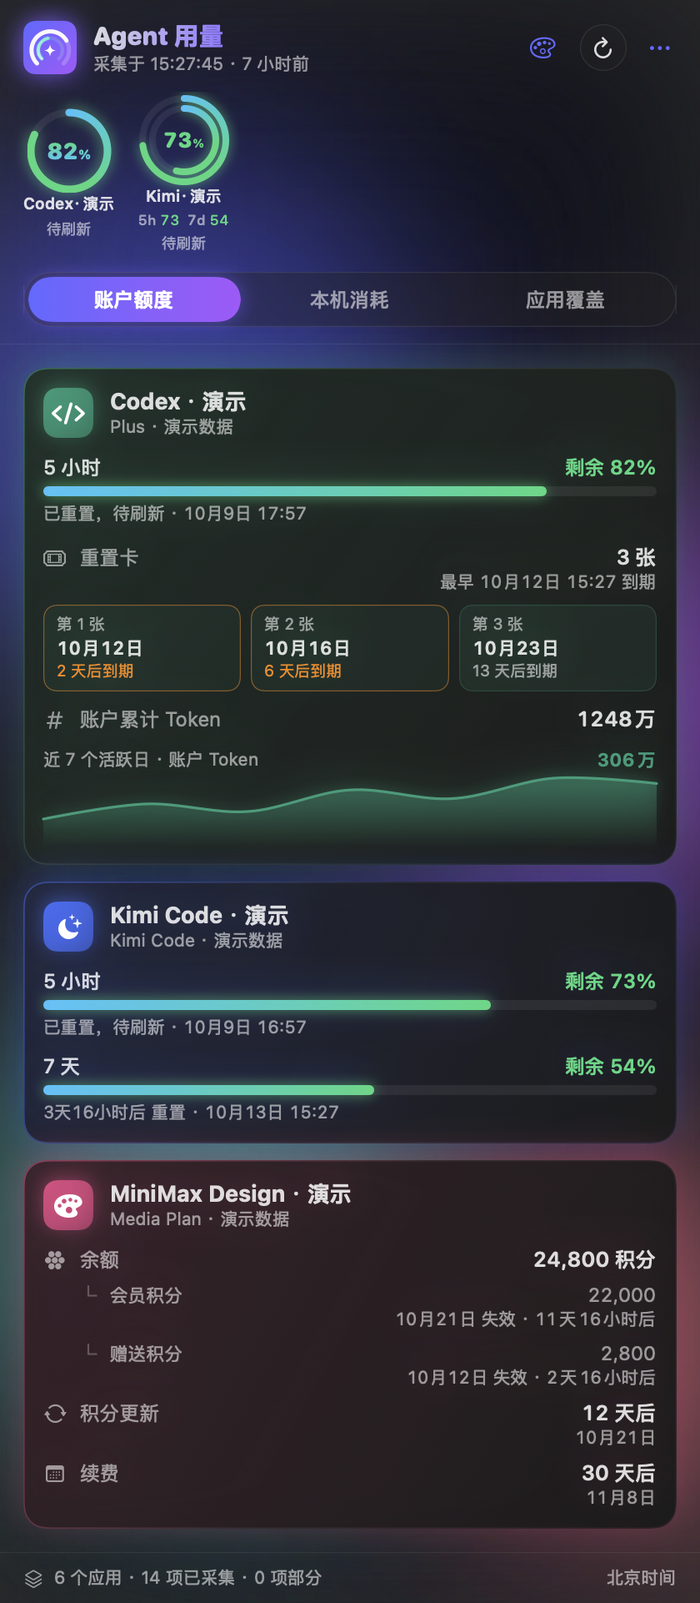
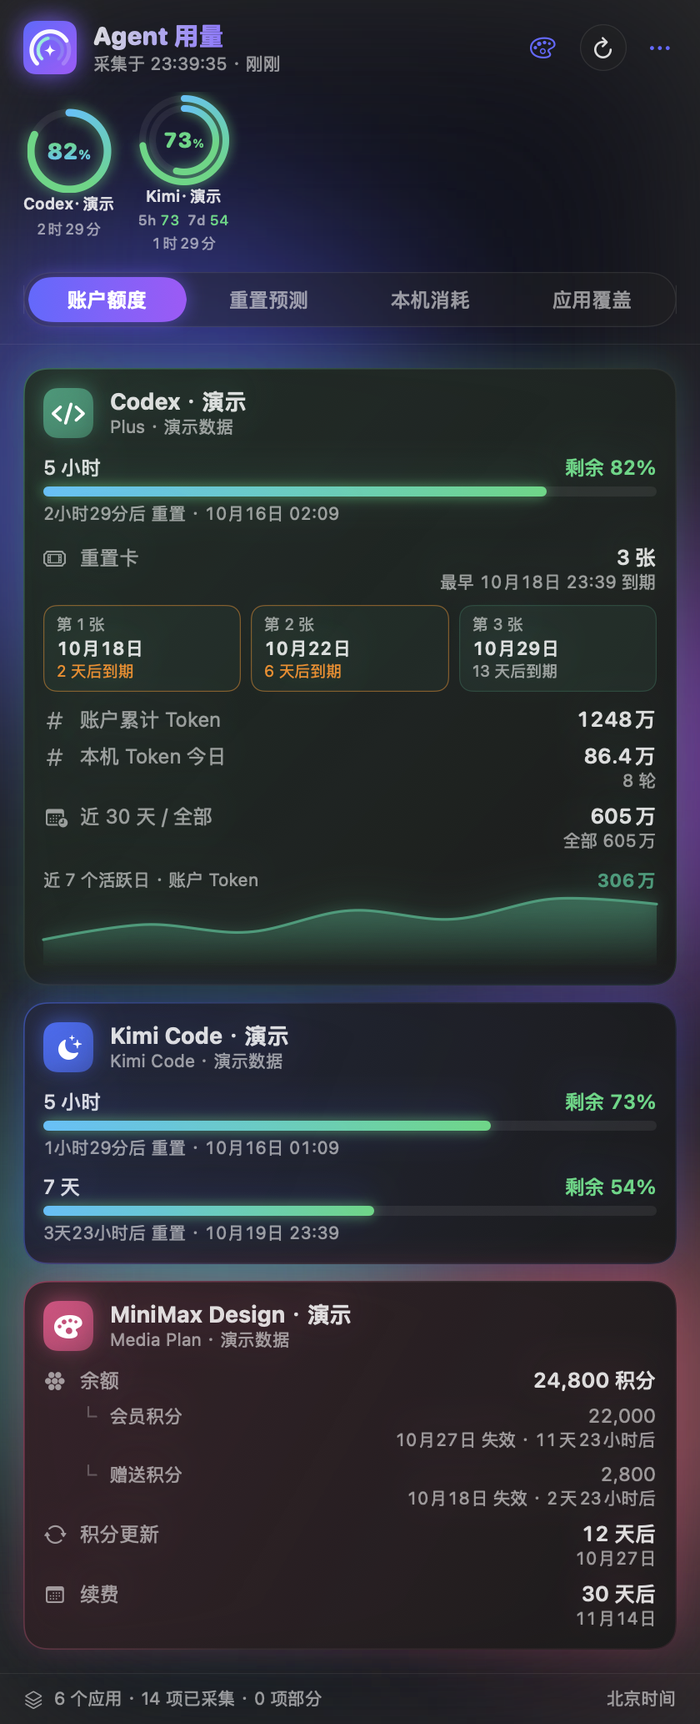
Release v0.6.0: Tibo reset forecast tab and Q-version resetter
Bump to 0.6.0, add release notes, and refresh every README screenshot from
the offline preview. The demo snapshot now carries synthetic forecast data,
and the theme sheet script also builds forecast-themes-{light,dark}.png for
the new README section.

Regression 266 tests and the DMG backend smoke test pass.

diff --git a/scripts/make-demo-snapshot.py b/scripts/make-demo-snapshot.py
@@ -65,7 +65,41 @@ design["metrics"]["credits"] = metric([{"balance": 24800, "unit": "credits", "bu
 design["metrics"]["credit_refresh_time"] = metric({"date": (today + timedelta(days=12)).isoformat()})
 design["metrics"]["renewal_time"] = metric({"date": (today + timedelta(days=30)).isoformat()})
 
-sources = [codex, kimi, design, history]
+forecast = source("reset_forecast", "external_forecast", now)
+def band(values):
+    nums = sorted(v for _, v in values)
+    return {"min": nums[0], "max": nums[-1], "spread": nums[-1] - nums[0], "n": len(nums),
+            "weighted_median": nums[len(nums) // 2], "agreement": "close" if nums[-1] - nums[0] <= 10 else "split",
+            "values": [{"source": s, "percent": v, "basis": "published_answer"} for s, v in values]}
+def site(key, name, h24, h48, confidence, weight, median_gap):
+    return {"source": key, "name": name, "status": "available", "updated_at": timestamp(now - 600),
+            "raw_24h": h24, "raw_48h": h48, "headline_24h": h24, "headline_48h": h48, "weight": weight,
+            "model_version": "demo", "self_reported": {"confidence": confidence, "note": "演示数据，非真实预测。"},
+            "cadence": {"median_gap_days": median_gap, "longest_gap_days": 14}}
+def event(post, kind, hours_ago, summary, n):
+    return {"post_id": post, "kind": kind, "announced_at": timestamp(now - hours_ago * 3600), "scope": "global",
+            "confidence": "high", "summary": summary, "sources": ["willreset", "codex_reset"][:n]}
+forecast["metrics"]["reset_forecast"] = metric({
+    "basis": "third_party_forecast", "cache_state": "fresh", "refresh_minutes": 45,
+    "disclaimer": "第三方独立统计，与 OpenAI 无关；官方从未保证未来会重置，也不是你的账户周期时钟。",
+    "ensemble": {"status": "available", "n_sources": 3, "horizons": {
+        "24h": band([("willreset", 22), ("codex_reset", 28), ("codexreset_org", 31)]),
+        "48h": band([("willreset", 46), ("codex_reset", 52), ("codexreset_org", 58)])}},
+    "sources": [site("willreset", "Will Codex Reset", 22, 46, "medium", 0.40, 3.0),
+                site("codex_reset", "Tibo Radar", 28, 52, "low", 0.27, 4.3),
+                site("codexreset_org", "Codex Reset Monitor", 31, 58, "medium", 0.88, 3.5)],
+    "promises": [{"source": "willreset", "label": "Explicit future reset, no clock", "quote": "演示：下一次重置在路上",
+                  "at": timestamp(now - 5 * 3600), "floor_percent": 60, "has_clock": False}],
+    "history_events": [event("demo-4", "reset_preview", 5, "演示：预告还会再重置一次", 2),
+                       event("demo-3", "reset", 3 * 24, "演示：全员额度已重置", 2),
+                       event("demo-2", "banked", 6 * 24, "演示：重置卡发放到账", 1),
+                       event("demo-1", "reset", 9 * 24, "演示：全员额度已重置", 2)]})
+window_open = now + 9 * 3600
+forecast["metrics"]["known_reset_countdown"] = metric({"basis": "third_party_forecast", "targets": [
+    {"kind": "typical_window", "precision": "window", "label": "公告常见时段 3 AM - 6 AM", "state": "upcoming",
+     "open_at": timestamp(window_open), "close_at": timestamp(window_open + 3 * 3600), "sources": ["codex_reset"]}]})
+
+sources = [codex, kimi, design, history, forecast]
 apps = [{"name": name, "provider": provider, "installed": True, "path": None,
          "version": None, "bundle_id": None} for name, provider in [
     ("Codex", "codex"), ("Kimi Code", "kimi"), ("MiniMax Design", "minimax_design"),

diff --git a/scripts/make-theme-sheet.py b/scripts/make-theme-sheet.py
@@ -1,4 +1,5 @@
-"""Join the four themed account previews into docs/images/themes-{dark,light}.png.
+"""Join the four themed previews into docs/images/themes-{dark,light}.png (accounts)
+and docs/images/forecast-themes-{dark,light}.png (Tibo resetter card).
 
 Needs Pillow (`python3 -m pip install pillow`); input comes from the App's
 offline preview of the synthetic README snapshot.
@@ -10,19 +11,24 @@ from PIL import Image
 
 root = Path(__file__).resolve().parents[1]
 rendered = Path(sys.argv[1]) if len(sys.argv) > 1 else root / ".runtime/readme-demo/rendered"
-height = 1240  # header, cockpit, tabs and the first account card
 gap = 24
+# (tab, output prefix, crop): header, cockpit, tabs and the first card.
+# Minimal's underline tabs are shorter, so its forecast card starts higher.
+sheets = [("accounts", "themes", (0, 1240)), ("forecast", "forecast-themes", (440, 680))]
+shift = {"forecast": {"minimal": -30}}
 
-for mode, backdrop in (("dark", (24, 24, 28)), ("light", (232, 232, 236))):
-    names = [f"minimal-accounts-{mode}", f"native-accounts-{mode}", f"accounts-{mode}", f"neon-accounts-{mode}"]
+for (tab, prefix, (top, height)), (mode, backdrop) in ((s, m) for s in sheets
+                                                        for m in (("dark", (24, 24, 28)), ("light", (232, 232, 236)))):
+    names = [f"minimal-{tab}-{mode}", f"native-{tab}-{mode}", f"{tab}-{mode}", f"neon-{tab}-{mode}"]
     panels = [Image.open(rendered / f"{n}.png").convert("RGB") for n in names]
-    panels = [p.crop((0, 0, p.width, min(height, p.height))) for p in panels]
+    tops = [top + shift.get(tab, {}).get(n.split("-")[0], 0) for n in names]
+    panels = [p.crop((0, t, p.width, min(t + height, p.height))) for p, t in zip(panels, tops)]
     sheet = Image.new("RGB", (sum(p.width for p in panels) + gap * (len(panels) - 1), height), backdrop)
     x = 0
     for p in panels:
         sheet.paste(p, (x, 0))
         x += p.width + gap
     sheet = sheet.resize((sheet.width // 2, sheet.height // 2), Image.LANCZOS)
-    output = root / f"docs/images/themes-{mode}.png"
+    output = root / f"docs/images/{prefix}-{mode}.png"
     sheet.save(output, optimize=True)
     print(output)

diff --git a/README.md b/README.md
@@ -10,17 +10,17 @@
 
 <p align="center">
   <strong>专为开发者与创作者打造的 macOS 菜单栏 AI Agent 用量与额度大盘</strong><br />
-  实时聚合账户额度 · 重置倒计时 · 重置卡库存 · 创作积分 · 本机 Token 消耗流
+  实时聚合账户额度 · 重置倒计时 · 重置卡库存 · 创作积分 · 本机 Token 消耗流 · Tibo 全员重置预测
 </p>
 
 <p align="center">
   <img src="https://img.shields.io/badge/Platform-macOS%2014%2B-black?logo=apple" alt="Platform: macOS 14+" />
   <img src="https://img.shields.io/badge/Frontend-Swift%20%2F%20SwiftUI-orange?logo=swift" alt="Frontend: Swift Native" />
   <img src="https://img.shields.io/badge/Backend-Python%203.9%2B%20(Stdlib%20Only)-blue?logo=python" alt="Backend: Python 3.9+ No Third-party Deps" />
-  <img src="https://img.shields.io/badge/Schema-v3-success" alt="Schema: v3" />
-  <img src="https://img.shields.io/badge/Tests-233%20Passed-brightgreen" alt="Tests: 233 Passed" />
+  <img src="https://img.shields.io/badge/Schema-v4-success" alt="Schema: v4" />
+  <img src="https://img.shields.io/badge/Tests-266%20Passed-brightgreen" alt="Tests: 266 Passed" />
   <img src="https://img.shields.io/badge/Security-100%25%20Read--Only-red" alt="Security: 100% Read-Only" />
-  <img src="https://img.shields.io/badge/Release-v0.5.0-blue" alt="Release: v0.5.0" />
+  <img src="https://img.shields.io/badge/Release-v0.6.0-blue" alt="Release: v0.6.0" />
   <a href="LICENSE"><img src="https://img.shields.io/badge/License-MIT-green" alt="License: MIT" /></a>
 </p>
 
@@ -53,6 +53,7 @@
 │ ✦ 四套界面风格面板：极简 · 原生 · 极光 · 霓虹 (AgentMeterBar)          │
 │ ├─ 顶部驾驶舱：每个账户一个同心圆仪表（5 小时 / 7 天合一），一键直达应用 │
 │ ├─ 账户额度：各供应商统一卡片——额度窗口、积分钱包、重置卡、续费提醒    │
+│ ├─ 重置预测：Q 版 Tibo + 重置器，三家追踪站交叉的全员重置概率与倒计时  │
 │ ├─ 本机消耗：CC Switch 历史 + Kimi Code 真实会话 Token 双流去重合并     │
 │ └─ 应用覆盖：已检测 24+ Agent 应用的原生状态矩阵                       │
 └────────────────────────────────────────────────────────────────────────┘
@@ -122,6 +123,28 @@
 ### 6. 🎨 创作类工具专属指标支持（Creative Metering）
 - **MiniMax Design**：读取当前个人 Media Plan 钱包余额，精准追踪积分包失效时间与次月积分刷新倒计时；
 - **即梦 (Dreamina)**：内置隐藏 Web 监控视图，定期在后台拦截自身发出的安全查询响应，直观展现会员等级、积分明细与续费倒计时。
+
+### 7. 🔮 Tibo 全员重置预测 + Q 版重置器（Reset Forecast）
+- **独立的「重置预测」标签页**：只读抓取三家第三方追踪站（Will Codex Reset、Tibo Radar、Codex Reset Monitor）公布的 ChatGPT / Codex 全员重置概率，给出 24 / 48 小时**区间 + 加权中位**，并标出各站「接近 / 分歧」；
+- **Q 版 Tibo 与重置器**：大头小身的 Tibo 会随数据换表情——犯困（概率低）、等待、手按按钮（站内挂着承诺）、拍下按钮（公告时段进行中）、星星眼庆祝（追踪站刚记录到落地）；旁边的复古「重置器」屏幕显示 48 小时中位与 LED 进度条，出票口打印下一个已知时段的倒计时；
+- **四套主题各有造型**：极简为黑白线稿，原生用系统色，极光是粉彩渐变与微光，霓虹是发光线框；
+- **口径克制**：只汇总各站自己公布的数值，不写入账户重置时间、不进菜单栏行情条；通知只在**已公告**的时段开始 / 结束或追踪站记录到落地时触发，概率永远不弹通知；可在设置菜单一键关闭联网抓取。
+
+<p align="center">
+  <img src="docs/images/forecast-themes-light.png" alt="Tibo 重置器四套主题对比（浅色模式）：极简、原生、极光、霓虹，使用演示数据" width="100%" />
+  <img src="docs/images/forecast-themes-dark.png" alt="Tibo 重置器四套主题对比（深色模式）：极简、原生、极光、霓虹，使用演示数据" width="100%" />
+</p>
+<p align="center"><sub>从左到右：极简 · 原生 · 极光 · 霓虹（演示数据，非真实预测）</sub></p>
+
+<details>
+<summary>查看完整的重置预测页</summary>
+
+<p align="center">
+  <img src="docs/images/forecast-light.png" alt="重置预测浅色完整页面：Tibo 重置器、概率区间、承诺、倒计时、各站口径与历史记录，使用演示数据" width="48%" />
+  <img src="docs/images/forecast-dark.png" alt="重置预测深色完整页面，使用演示数据" width="48%" />
+</p>
+
+</details>
 
 ---
 
@@ -206,13 +229,13 @@ flowchart TD
 
 ### 方式一：下载即用（推荐）
 
-1. 从 [Releases · v0.5.0](https://github.com/Gary23333/agent-meter/releases/tag/v0.5.0) 页面下载最新的安装镜像：
-   - 📦 `AgentMeter-0.5.0-macos-arm64.dmg`
+1. 从 [Releases · v0.6.0](https://github.com/Gary23333/agent-meter/releases/tag/v0.6.0) 页面下载最新的安装镜像：
+   - 📦 `AgentMeter-0.6.0-macos-arm64.dmg`
 2. 打开 DMG，将 `Agent 用量.app` 拖入 `Applications`（应用程序）文件夹；
 3. 双击启动应用。菜单栏将立即出现小组件图标与默认行情条。
    - *App 包含独立 Python 后端，无需安装 Python、Xcode 或项目源码。各来源仍需对应客户端/登录态。*
 
-当前使用 ad-hoc 签名，尚未做 Apple 公证；首次打开可能需要在系统设置中允许。详见 [安装说明](docs/INSTALL.md) 和 [发布说明](docs/release-v0.3.1.md)。安装版数据位于 `~/Library/Application Support/AgentMeter/.runtime/`。
+当前使用 ad-hoc 签名，尚未做 Apple 公证；首次打开可能需要在系统设置中允许。详见 [安装说明](docs/INSTALL.md) 和 [发布说明](docs/release-v0.6.md)。安装版数据位于 `~/Library/Application Support/AgentMeter/.runtime/`。
 
 ### 方式二：从源码构建原生应用
 
@@ -228,7 +251,7 @@ python3 -m pip install -r requirements-build.txt
 sh scripts/build-dmg.sh
 ```
 
-构建产物输出至 `release/`：App、DMG 和 `SHA256SUMS`。`VERSION` 指定内部版本 0.5.0，发布标签为 v0.5.0；可用 `SIGN_IDENTITY` 指定签名身份，默认 ad-hoc。开发时可用 `AGENT_METER_HOME` 指定源码后端。
+构建产物输出至 `release/`：App、DMG 和 `SHA256SUMS`。`VERSION` 指定内部版本 0.6.0，发布标签为 v0.6.0；可用 `SIGN_IDENTITY` 指定签名身份，默认 ad-hoc。开发时可用 `AGENT_METER_HOME` 指定源码后端。
 
 | 目录 | 内容 |
 | --- | --- |
@@ -312,6 +335,10 @@ python3 -m agent_meter verify --output .runtime/verification.json
 ## 📝 更新日志
 
 各版本的完整说明见 [发布说明](docs/)（`release-v*.md`）。
+
+### v0.6.0 · 2026-10-15
+- **新增「重置预测」标签页（Tibo 全员重置）**：只读抓取三家第三方追踪站，汇总 ChatGPT / Codex 全员重置的 24 / 48 小时概率区间与加权中位，列出站内承诺、已知时段倒计时、各站口径与已验证的重置记录；通知只按已公告事件触发。schema 升至 4。详见[发布说明](docs/release-v0.6.md)。
+- **Q 版 Tibo 与重置器**：预测页顶部的吉祥物会随数据换表情，旁边的「重置器」显示 48 小时中位、LED 进度条和下一时段倒计时小票；四套主题各有造型，整页颜色改为跟随主题。
 
 ### v0.5.0 · 2026-10-15
 - **新增来源：阶跃星辰 (StepFun) 开放平台** —— 内嵌窗口登录控制台读取账户余额（充值 / 赠送）与 STEP plan 用量（5 小时 / 每周窗口，或 Token Plan 的月度积分池），并显示套餐名与到期日；也可改用开放平台 API Key（按官方文档 `GET /v1/accounts`，只能读余额）。最多 5 个账号。详见[发布说明](docs/release-v0.5.md)。

diff --git a/docs/agent-knowledge/README.md b/docs/agent-knowledge/README.md
@@ -55,3 +55,5 @@
 2026-10-15 新增来源：**阶跃星辰 (StepFun) 开放平台**（用户要求接入账户余额与 STEP plan 用量）。契约调研结论：官方**公开文档**只有 `GET https://api.stepfun.com/v1/accounts`（Bearer API Key，`{object, type: prepaid|postpaid, balance, total_cash_balance, total_voucher_balance}`，单位元），**只能读余额**；STEP plan 用量只在控制台自身的 Connect 风格 RPC 上：`POST platform.stepfun.com/api/step.openapi.devcenter.Dashboard/{QueryAccountBalance,GetStepPlanStatus,QueryStepPlanRateLimit}`，body `{}`，靠 `Oasis-Token` cookie 认证（另需 `oasis-appid: 10300`、`oasis-platform: web`、`oasis-webid` 头）。用户提示"可以看下他们的 cli 工具是怎么实现的"，据此核对了三个独立实现：npm `@stepfun-ai/cli`（janssenkm/stepfun-cli，用 API Key 调 `/v1/accounts` 读余额，`/step_plan/v1` 为生成端点）、`Daiyimo/stepfun-status`（cookie 监控，给出控制台请求头与 Cookie 保活）、`Zephyruston/stepfun-cli` 的 `docs/protocol.md`（mitmproxy 逆向，逐字段列出三个 RPC 与「金额以分下发、credit 是整数计数、窗口字段 0 表示没有配额而非用完」三条关键行为），并与 CodexBar `StepFunUsageFetcher.swift` 交叉一致。实现 `agent_meter/stepfun.py`：cookie 优先、API Key 兜底（quota 报 `stepfun_step_plan_needs_console_login`）；Cookie 在转发前**只保留 Oasis-Token**（多带任一字段服务端会把整串当单个 JWT 解析并 401），并从两段 JWT 取 `device_id` 作 `oasis-webid`、`oasis_id` 作 account_key 散列输入；控制台金额分→元；Coding Plan 取 5 小时/每周窗口，Token Plan 取月度积分池（订阅/加油比例独立不相加，优先 `credit_buckets` 绝对余额，任一桶不可用则回退比例并只给百分比）；窗口字段为 0 时不生成假进度条；套餐刊例价不当作续费金额。**尚未用真实账户端到端验收**（本机无阶跃账号），只过固定样例与契约对照；回归 233 项全过（新增 21 项），verify 634 项全过。契约见[后端 API 文档](../backend-api.md)"阶跃星辰 (StepFun) 开放平台"一节。
 
 2026-10-15 新增独立功能：**ChatGPT/Codex 全员（Tibo）重置预测与已知重置倒计时**。用户要求"独立的"功能，并选定：第三方追踪站为主、多源交叉提高准确性、输出"区间为主 + 加权中位"、面板新增独立标签页。schema 升到 4，新增来源 `reset_forecast`（scope `external_forecast`）与指标 `reset_forecast`、`known_reset_countdown`；**不写 `reset_time`、不进账户卡片 / 菜单栏滚动 / 本机消耗**，通知只按已公告事件触发（概率永不弹通知）。三家源实测：willreset.com 与 codex-reset.com 有免密钥 JSON（前者另有 `/developers` 文档与 `/mcp`），codexreset.org 无 API、预测对象内嵌页面脚本需锚定解析。**三家都拒绝 Python 默认 UA（403），必须带应用 UA**；纯公开只读 GET，不带 Cookie、不发送任何本机数据。关键口径发现：willreset 当天中午从 `cadence-v1`（raw_24=0.394、公布 83）切到 `evidence-v2`（raw_* 变 0、公布 16），证明**站内未公布的字段不能作为跨源输入**，因此合成只用各站自己公布的答复，内部值降级为可见元数据；权重全部取自各站上报的质量（自报信心、Brier / 回测状态、样本量、新鲜度），系数常量随 `weight_components` 下发可核对；超过 48 小时未更新的来源整体剔除而非按 0 计。同一事件在不同站有不同时间语义（公告 06:28 vs 观测落地 06:13），按 X 状态 ID 去重合并，但公告时间 / 落地时间 / 官方窗口分开存、不相加不平均；推文正文不进快照。无可机读时间时倒计时 `seconds_remaining` 保持 null、面板显示"未给时间"，沿用日精度不造秒数的既有原则。预测两指标排除在应用覆盖矩阵外（`COVERAGE_METRICS`），否则每个应用凭空多出两项"缺失"。节流 45 分钟、有源失败缩到 5 分钟重试、`.runtime/reset-forecast.json` 存最近成功值，三家全挂且无缓存时按 stale 回退、无缓存则 `reset_forecast_sources_unavailable`。本机实测三家可用、24h 区间 18–83%（标"分歧"）、加权中位 20%、去重后 40 条历史记录。回归 266 项全过（新增 33 项预测测试），`verify` 703 项全过，含 33 项预测独立重算（区间、中位数、分歧标签、去重、倒计时状态机）。**未做**：本机落地校验层（用户本轮未选）、公告时间手动录入通道、其他产品的同类预测。契约见[后端 API 文档](../backend-api.md)"全员重置预测（schema 4）"一节。
+
+同日 v0.6.0：预测页前端改为「Tibo 重置器」——Q 版 Tibo（`menubar/Sources/AgentMeterBar/TiboMascot.swift`，表情判定与通知同口径，气泡只复述已有数据）加重置器机器；预测页颜色全部经 `ForecastTone` 跟随四套主题。README 演示快照新增虚构预测数据（`scripts/make-demo-snapshot.py`），`scripts/make-theme-sheet.py` 额外输出 `forecast-themes-*.png`。

diff --git a/docs/release-v0.6.md b/docs/release-v0.6.md
@@ -1,0 +1,28 @@
+# v0.6.0 发布说明
+
+2026-10-15 发布；App 内部版本为 0.6.0。适用于 macOS 14+、Apple Silicon（arm64）。
+
+## 新增：重置预测标签页（Tibo 全员重置）
+
+面板新增独立的「重置预测」标签页，回答「ChatGPT / Codex 下一次全员重置大概什么时候」。
+
+- **来源**：只读抓取三家第三方追踪站——Will Codex Reset（willreset.com）、Tibo Radar（codex-reset.com）、Codex Reset Monitor（codexreset.org）。纯公开 GET，不带 Cookie，也不发送任何本机数据。每 45 分钟抓一次，有源失败时 5 分钟后重试；最近一次成功结果会缓存，全部失败时按「过期」显示，不会当成零。
+- **合成口径**：只用各站**自己公布**的 24 / 48 小时答复，给出区间 + 加权中位，并标出「接近 / 分歧」；站内未公布的模型字段只作为元数据列出，不参与合成。权重全部来自各站自报的质量（信心、Brier / 回测、样本量、新鲜度），超过 48 小时未更新的来源整体剔除。
+- **承诺与倒计时**：站内挂着的「已承诺会再重置」单独成卡；没有可机读时间时显示「未给时间」，不编造倒计时。常见公告时段按北京时间显示倒计时。
+- **历史记录**：多站记录的同一事件按帖子去重合并，并标出几家印证。
+- **通知**：只在**已公告**的时段开始 / 结束，或追踪站记录到落地时提醒；概率高低永远不会触发通知。
+- **边界**：不写入任何账户的重置时间，不进账户卡片、菜单栏行情条或本机消耗；设置菜单「全员重置预测（联网读第三方追踪站）」可随时关闭。
+- 这是第三方独立统计，与 OpenAI 无关；官方从未保证未来会重置。
+
+## 新增：Q 版 Tibo 与重置器
+
+预测页顶部是「Tibo 重置器」卡片：
+
+- **Q 版 Tibo** 会随数据换表情：犯困（48 小时中位低于 20%）、等待、手按按钮（站内挂着承诺，或 48 小时中位 ≥ 50%）、拍下按钮（已公告时段进行中）、星星眼庆祝（追踪站 24 小时内记录到一次高 / 中信心的落地，与通知同一判定）。气泡只复述页面上已有的数据。
+- **重置器**：圆顶按钮、闪烁的天线灯、旋钮，屏幕显示 48 小时中位、24 小时值和 10 段 LED 进度条，出票口打印下一个已知时段的倒计时。
+- **四套主题各有造型**：极简为黑白线稿、原生用 macOS 系统色、极光是粉彩渐变与微光、霓虹是发光线框；整页原先写死的颜色都改为跟随主题。
+- 动画很轻（眨眼与轻微浮动），只在标签页打开时运行，开启「减少动态效果」时停止。
+
+## 验证
+
+回归 266 项通过（新增 33 项预测测试），DMG 内置后端冒烟测试通过。README 截图由离线预览和虚构演示数据生成。

diff --git a/docs/images/README.md b/docs/images/README.md
@@ -1,6 +1,6 @@
 # README 演示截图
 
-此目录的截图由 AgentMeter v0.2 自带离线预览生成，采用虚构账户、积分、额度和 Token 历史。没有读取真实账户、私有日志或登录凭据；来源名称与模型名仅用于展示界面。
+此目录的截图由 AgentMeter v0.6.0 自带离线预览生成，采用虚构账户、积分、额度和 Token 历史。没有读取真实账户、私有日志或登录凭据；来源名称与模型名仅用于展示界面。
 
 - `accounts-light.png` / `accounts-dark.png`：账户额度、重置卡、Token 趋势与积分钱包。
 - `usage-light.png` / `usage-dark.png`：本机 Token 构成、估算费用、应用和模型排行。
@@ -8,6 +8,8 @@
 - `ticker-light.png`：菜单栏行情条。
 - `ticker.gif`：行情条滚动动画（浅色 / 深色菜单栏），由 `scripts/make-ticker-gif.py` 从 `ticker-light.png` / `ticker-dark.png` 生成，滚动速度为 App 的 3 倍以缩短循环。
 - `themes-light.png` / `themes-dark.png`：四套界面风格对比（极简、原生、极光、霓虹，账户额度页）。
+- `forecast-light.png` / `forecast-dark.png`：重置预测完整页面（Tibo 重置器、概率区间、承诺、倒计时、各站口径与历史记录），预测数据为虚构。
+- `forecast-themes-light.png` / `forecast-themes-dark.png`：Tibo 重置器卡片的四套主题对比。
 
 重建截图：
 
@@ -16,4 +18,4 @@ python3 scripts/make-demo-snapshot.py
 'release/Agent 用量.app/Contents/MacOS/AgentMeterBar' --preview .runtime/readme-demo/snapshot.json .runtime/readme-demo/rendered
 ```
 
-按上面的文件名从 `.runtime/readme-demo/rendered/` 复制图片至本目录；预览会额外输出 `minimal-` `native-` `neon-` 前缀的各主题截图，`themes-light.png` / `themes-dark.png` 由 `scripts/make-theme-sheet.py` 拼接。需要已有 release App；构建入口为 `sh scripts/build-dmg.sh`。真实账户截图仍位于被忽略的 `docs/screenshots/`，不发布。
+按上面的文件名从 `.runtime/readme-demo/rendered/` 复制图片至本目录；预览会额外输出 `minimal-` `native-` `neon-` 前缀的各主题截图，`themes-*.png` 与 `forecast-themes-*.png` 由 `scripts/make-theme-sheet.py` 拼接。需要已有 release App；构建入口为 `sh scripts/build-dmg.sh`。真实账户截图仍位于被忽略的 `docs/screenshots/`，不发布。

diff --git a/release/README.md b/release/README.md
@@ -2,4 +2,4 @@
 
 运行 `sh scripts/build-dmg.sh`，本目录生成 App、DMG 和 `SHA256SUMS`。
 
-二进制通过 GitHub Releases 发布（当前 `v0.3.1`），避免重复放入 Git 历史。发布资产包括最新 DMG 和 SHA256SUMS；本目录的本地构建产物被 Git 忽略。
+二进制通过 GitHub Releases 发布（当前 `v0.6.0`），避免重复放入 Git 历史。发布资产包括最新 DMG 和 SHA256SUMS；本目录的本地构建产物被 Git 忽略。
